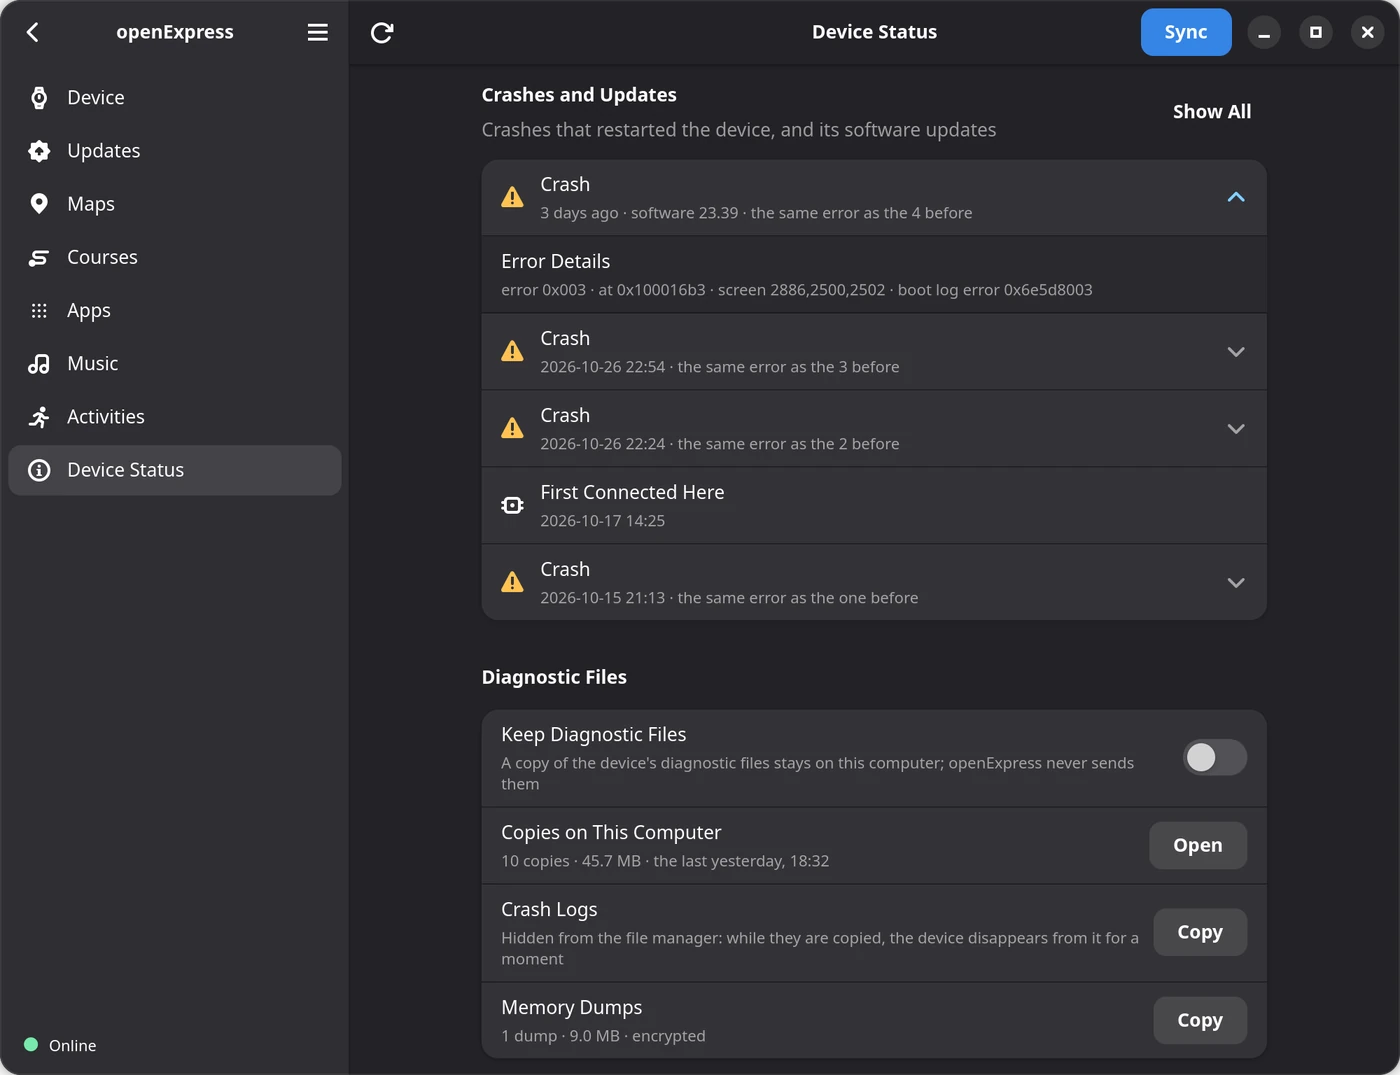
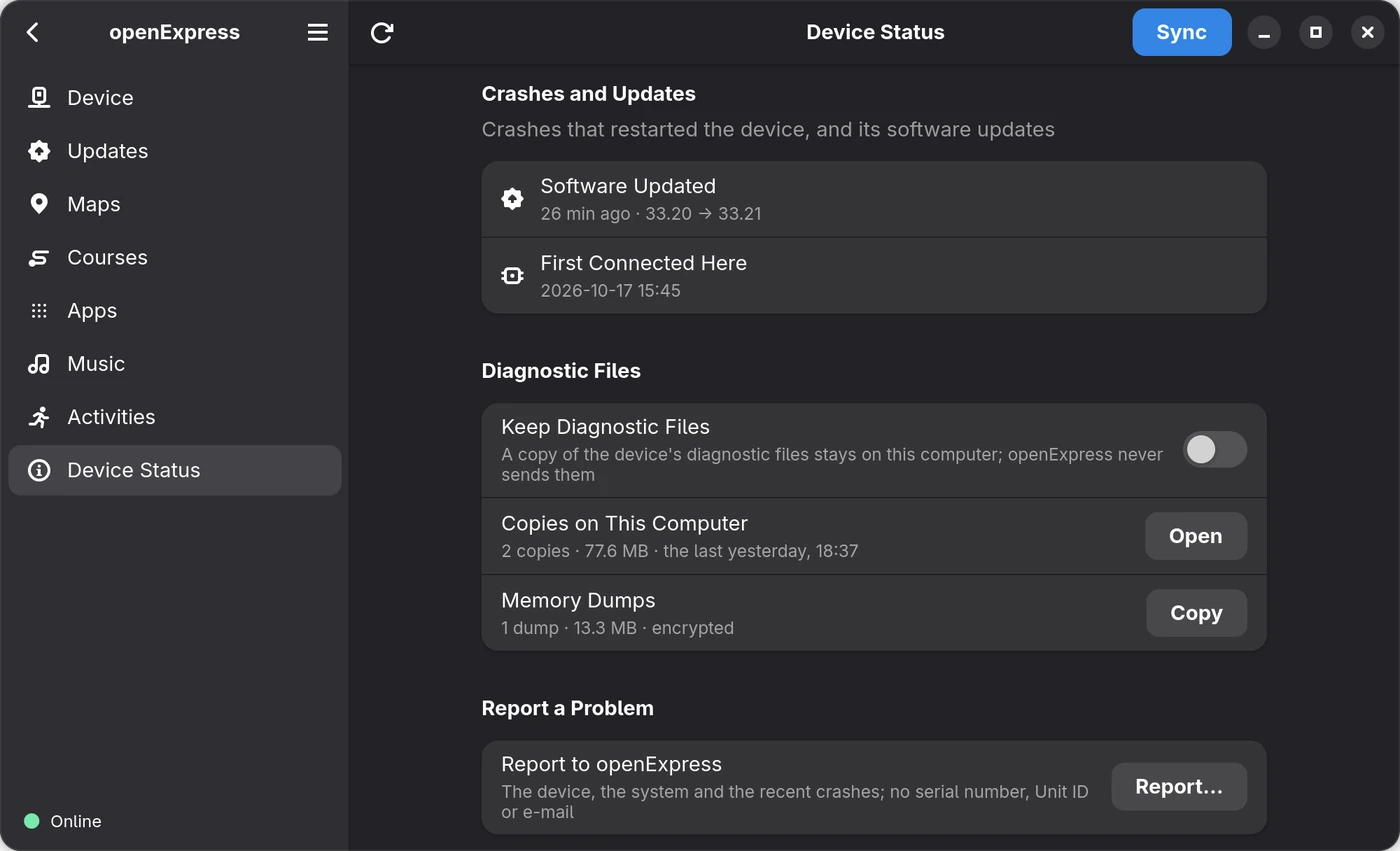
Website: the beta 33.21 of an Edge 1050, its Update ready and its update on Device Status
The pictures of Software updates show the beta as the window showed it, with
no list of changes (Garmin sends none for it), and a third one when the update
is ready; Device Status shows the update row of the same Edge. Captions and
alt texts say what is on them: the version, the size and where it goes on the
device.

diff --git a/index.html b/index.html
@@ -181,19 +181,28 @@ flatpak install --user bojanowski io.github.tomaszbojanowski.OpenExpress</code><
         <a class="zoom" href="screenshots/full/light-updates.webp" data-dark="screenshots/full/dark-updates.webp">
           <picture>
             <source media="(prefers-color-scheme: dark)" srcset="screenshots/dark-updates.webp">
-            <img src="screenshots/light-updates.webp" width="1400" height="1036" loading="lazy" alt="The Updates page of a fēnix 8: version 21.20 available, a beta, with Install, Install All and Check Again, a component update, and Reinstall Components under Advanced">
+            <img src="screenshots/light-updates.webp" width="1400" height="1036" loading="lazy" alt="The Updates page of an Edge 1050: version 33.21 available, a beta of 97.7 MB, with Install and Check Again, and Reinstall Components under Advanced">
           </picture>
         </a>
-        <figcaption>Updates for the device and its components, downloaded from Garmin</figcaption>
+        <figcaption>The update Garmin offers: its version, its size, and whether it is a&nbsp;beta</figcaption>
       </figure>
       <figure class="shot">
         <a class="zoom" href="screenshots/full/light-update-confirm.webp" data-dark="screenshots/full/dark-update-confirm.webp">
           <picture>
             <source media="(prefers-color-scheme: dark)" srcset="screenshots/dark-update-confirm.webp">
-            <img src="screenshots/light-update-confirm.webp" width="1400" height="1036" loading="lazy" alt="The confirmation dialog before an update is installed: the versions, its size and where it goes on the device, what changes, that it is a beta, the license agreement and a warning about a system update">
+            <img src="screenshots/light-update-confirm.webp" width="1400" height="1036" loading="lazy" alt="The confirmation dialog before an update of an Edge 1050 is installed: both versions, its size and where it goes on the device, that it is a beta, the license agreement and a warning about a system update">
           </picture>
         </a>
-        <figcaption>Before anything is written, openExpress shows what changes and warns when Garmin offers a&nbsp;beta</figcaption>
+        <figcaption>Before anything is written: the version, the size and where it goes on the device, with a warning for a&nbsp;beta</figcaption>
+      </figure>
+      <figure class="shot">
+        <a class="zoom" href="screenshots/full/light-update-ready.webp" data-dark="screenshots/full/dark-update-ready.webp">
+          <picture>
+            <source media="(prefers-color-scheme: dark)" srcset="screenshots/dark-update-ready.webp">
+            <img src="screenshots/light-update-ready.webp" width="1400" height="1036" loading="lazy" alt="The Updates page after the copy: Update ready: unplug the device to install it, 33.20 → 33.21, a beta, with Check Again">
+          </picture>
+        </a>
+        <figcaption>Copied: the device installs it once unplugged</figcaption>
       </figure>
     </div>
   </section>
@@ -211,14 +220,14 @@ flatpak install --user bojanowski io.github.tomaszbojanowski.OpenExpress</code><
         </a>
         <figcaption>Crashes in the last 30 days and the storage by kind of file</figcaption>
       </figure>
-      <figure class="shot" style="--ratio: 1.302">
+      <figure class="shot" style="--ratio: 1.645">
         <a class="zoom" href="screenshots/full/light-status-history.webp" data-dark="screenshots/full/dark-status-history.webp">
           <picture>
             <source media="(prefers-color-scheme: dark)" srcset="screenshots/dark-status-history.webp">
-            <img src="screenshots/light-status-history.webp" width="1400" height="1075" loading="lazy" alt="The crashes and software updates of a fēnix 8, one crash opened with its error details, and its diagnostic files">
+            <img src="screenshots/light-status-history.webp" width="1400" height="851" loading="lazy" alt="The Device Status page of an Edge 1050: its software update from 33.20 to 33.21 and its first connection to this computer, its diagnostic files (two copies on this computer, one memory dump) and Report a Problem">
           </picture>
         </a>
-        <figcaption>Each crash once, with its details, beside the software updates</figcaption>
+        <figcaption>Crashes and software updates in one list: here an update just installed</figcaption>
       </figure>
     </div>
   </section>
